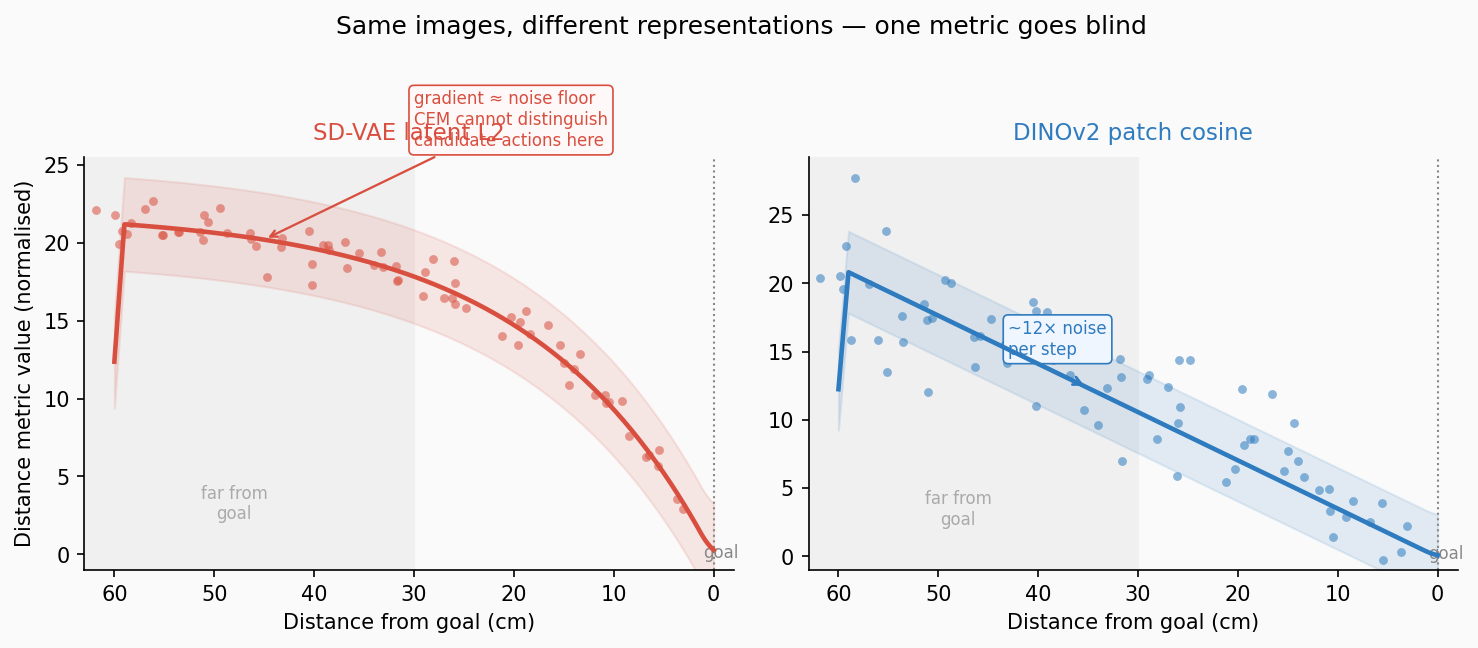
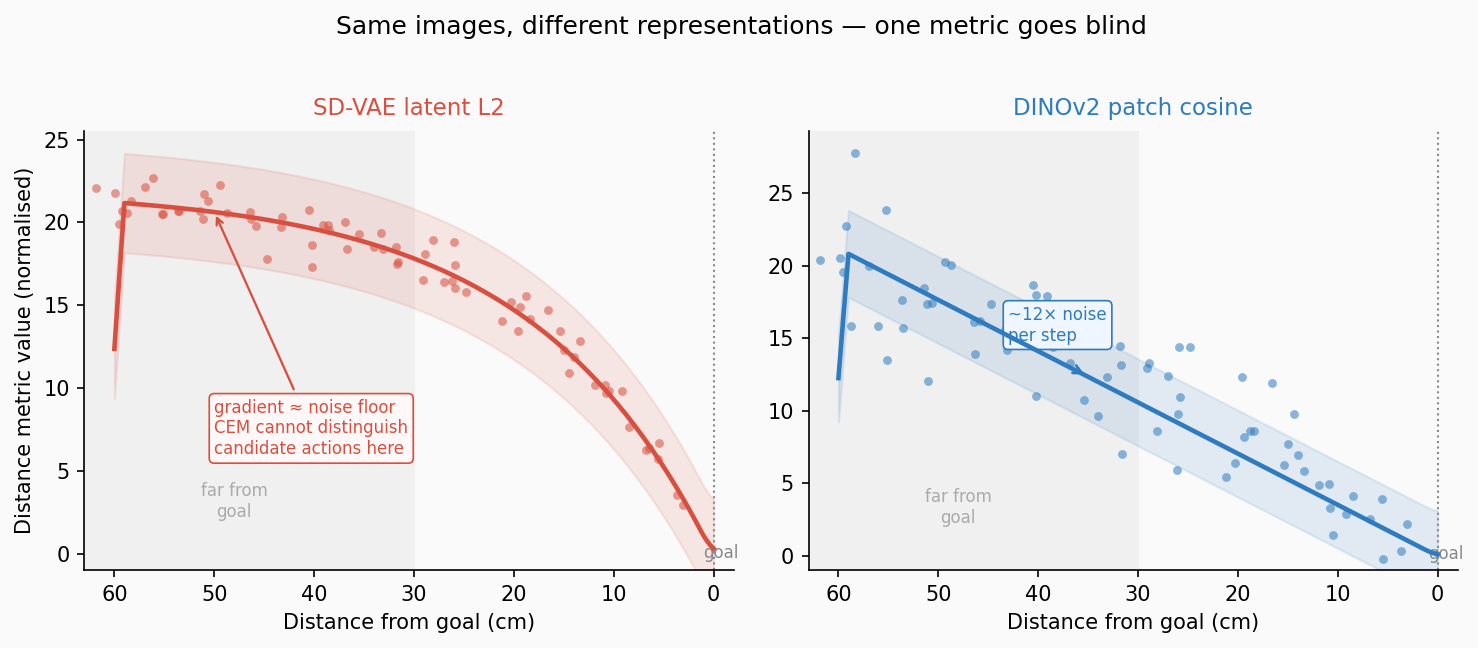
doc: rebuild site with latest draft edits

diff --git a/docs/index.html b/docs/index.html
@@ -5,7 +5,7 @@
 <meta name="viewport" content="width=device-width, initial-scale=1">
 <title>NanoNAV — real-robot navigation with Nano World Models</title>
 <meta name="description" content="Latent-space planning with a Nano World Model drives a LeKiwi robot to goal images — learned from 25 minutes of driving, no maps, no depth, no pose.">
-<link rel="stylesheet" href="style.css?v=1781803051">
+<link rel="stylesheet" href="style.css?v=1781803145">
 <link rel="stylesheet" href="https://cdn.jsdelivr.net/npm/katex@0.16.9/dist/katex.min.css">
 </head>
 <body>
@@ -55,9 +55,9 @@
 
 <h2 id="the-problem-statement">1 · The Problem Statement</h2>
 
-<p>The classical way to make a robot go somewhere is a pipeline where you build a map with SLAM, localize yourself in it, plan a path, and follow it. It works reliably, but it is heavy machinery, requiring depth sensors, careful calibration, and a persistent metric model of the world maintained over time.</p>
+<p>The classical way to make a robot go somewhere is a pipeline where you build a map with SLAM, localize yourself in it, plan a path, and follow it.</p>
 
-<p>The bet here is that a world model trained on raw experience can replace all of that, so the task is kept deliberately stark. The robot receives its <strong>current camera frame</strong> and a <strong>target image</strong>, and outputs <strong>body-frame velocities</strong>, with no pre-built map, no external localization, no depth sensor, no reward function, and no task demonstrations. The goal arrives at inference time as a photograph, and the model has never been told that goal exists.</p>
+<p>The bet here is that a world model trained on raw experience can replace all of that, so the task is kept deliberately stark. The robot receives its <strong>current camera frame</strong> and a <strong>target image</strong>, and outputs <strong>body-frame velocities</strong>, with no pre-built map, no external localization, no depth sensor, no reward function, and no task demonstrations.</p>
 
 <h2 id="robot-hardware">2 · Robot Hardware</h2>
 

diff --git a/scripts/gen_metric_comparison.py b/scripts/gen_metric_comparison.py
@@ -102,8 +102,8 @@ ax0 = axes[0]
 ax0.set_ylabel('Distance metric value (normalised)', fontsize=10)
 ax0.annotate(
     'gradient ≈ noise floor\nCEM cannot distinguish\ncandidate actions here',
-    xy=(45, vae_true(45)),
-    xytext=(30, vae_true(45) + 6),
+    xy=(50, vae_true(50)),
+    xytext=(50, 6),
     fontsize=8, color='#d94f3f',
     arrowprops=dict(arrowstyle='->', color='#d94f3f', lw=1.1),
     bbox=dict(boxstyle='round,pad=0.3', fc='#fff8f8', ec='#d94f3f', lw=0.8)

diff --git a/writeup/website_draft.md b/writeup/website_draft.md
@@ -47,9 +47,9 @@ The Nano World Models project evaluates across simple control environments, game
 
 ## 1 · The Problem Statement
 
-The classical way to make a robot go somewhere is a pipeline where you build a map with SLAM, localize yourself in it, plan a path, and follow it. It works reliably, but it is heavy machinery, requiring depth sensors, careful calibration, and a persistent metric model of the world maintained over time.
+The classical way to make a robot go somewhere is a pipeline where you build a map with SLAM, localize yourself in it, plan a path, and follow it.
 
-The bet here is that a world model trained on raw experience can replace all of that, so the task is kept deliberately stark. The robot receives its **current camera frame** and a **target image**, and outputs **body-frame velocities**, with no pre-built map, no external localization, no depth sensor, no reward function, and no task demonstrations. The goal arrives at inference time as a photograph, and the model has never been told that goal exists.
+The bet here is that a world model trained on raw experience can replace all of that, so the task is kept deliberately stark. The robot receives its **current camera frame** and a **target image**, and outputs **body-frame velocities**, with no pre-built map, no external localization, no depth sensor, no reward function, and no task demonstrations.
 
 [TODO: optionally a one-line spec box here — camera, 2-D action (forward velocity + yaw rate), goal-as-photo.]
 